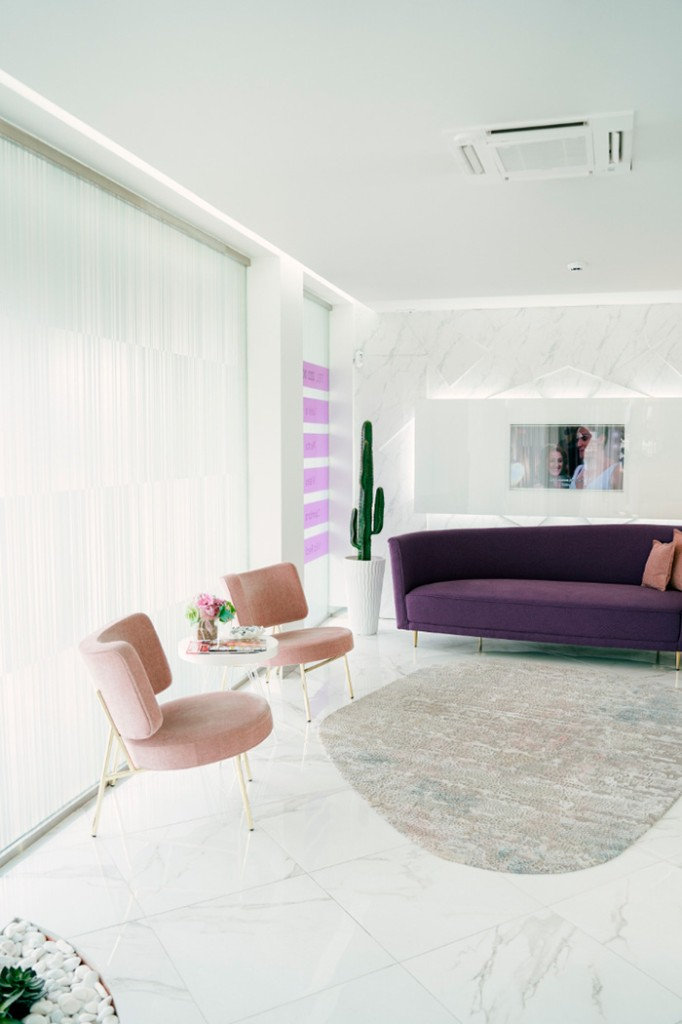
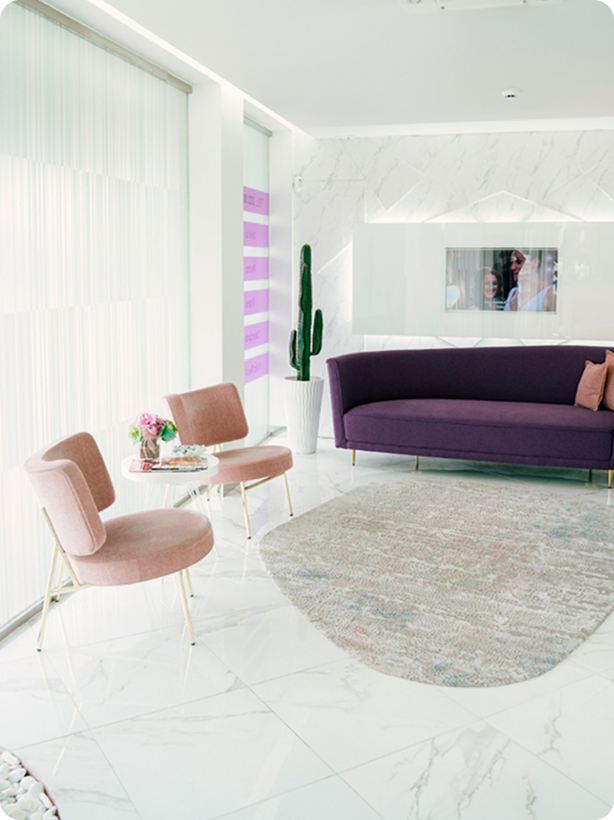
Fixed and next section image , layout , responsiveness etc

diff --git a/resources/css/components/contact.css b/resources/css/components/contact.css
@@ -1416,14 +1416,7 @@
     overflow: hidden;
     border-top-left-radius: calc(var(--clinics-frame-width) * 120 / 1711);
     container-type: inline-size;
-    background:
-      radial-gradient(
-        ellipse 38.5% 30% at 0 0,
-        rgb(225 199 249 / 0.76) 0%,
-        rgb(225 199 249 / 0.36) 37%,
-        rgb(255 255 255 / 0) 72%
-      ),
-      #ffffff;
+    background: radial-gradient(97% 50% at 0 0, #e1c7f9 0%, #e1c7f975 70%, #fff0 100%), #fff;
   }
 
   #clinics-teaser .clinics-section__glow,
@@ -1454,8 +1447,8 @@
   #clinics-teaser .clinics-section__media {
     position: absolute;
     top: 7.948568089cqw; /* 136 / 1711 */
-    left: 8.29924021cqw; /* 142 / 1711 */
-    width: 35.885447107cqw; /* 614 / 1711 */
+    left: 8.6cqw;
+    width: 35.4cqw;
     height: 47.925189947cqw; /* 820 / 1711 */
     min-height: 0;
     margin: 0;
@@ -1501,15 +1494,15 @@
   #clinics-teaser .clinics-section__content {
     position: absolute;
     top: 13.50087668cqw; /* 231 / 1711 */
-    left: 47.866744594cqw; /* 819 / 1711 */
-    width: 40.97019287cqw; /* 701 / 1711 */
+    left: 47.6cqw;
+    width: 40.5cqw;
     max-width: none;
     margin: 0;
     padding: 0;
   }
 
   #clinics-teaser .clinics-section__title {
-    width: 39.859731151cqw; /* 682 / 1711 */
+    width: 39.4cqw;
     height: 2.27936879cqw; /* 39 / 1711 */
     margin: 0;
     overflow: hidden;
@@ -1521,21 +1514,21 @@
   }
 
   #clinics-teaser .clinics-section__divider {
-    width: 40.97019287cqw; /* 701 / 1711 */
+    width: 40.5cqw;
     height: 0;
     margin: 1.285797779cqw 0 0; /* line at Y292 */
     border-top: 1px solid #9a9a9a;
   }
 
   #clinics-teaser .clinics-section__list {
-    width: 40.97019287cqw; /* 701 / 1711 */
+    width: 40.5cqw;
     margin: 0;
     padding: 0;
   }
 
   #clinics-teaser .clinics-section__item {
     display: block;
-    width: 40.97019287cqw; /* 701 / 1711 */
+    width: 40.5cqw;
     height: 6.604325073cqw; /* 113 / 1711 */
     padding: 1.344243132cqw 0 0; /* 23 / 1711 */
     border-bottom: 1px solid #9a9a9a;

diff --git a/resources/js/live-gradient.js b/resources/js/live-gradient.js
@@ -59,6 +59,10 @@ function getIntensityScale(element) {
 }
 
 function createState(element, index) {
+  if (element.hasAttribute("data-live-gradient-disabled")) {
+    return null;
+  }
+
   const style = getComputedStyle(element);
   const mode = getGradientMode(element, style);
 

diff --git a/resources/views/components/clinics-section.blade.php b/resources/views/components/clinics-section.blade.php
@@ -21,6 +21,7 @@
     <div
         class="clinics-section__panel relative overflow-hidden bg-[#02000d] lg:-mt-[235px] lg:rounded-tl-[120px] lg:bg-white"
         data-scroll-gradient
+        data-live-gradient-disabled
         data-live-gradient-intensity="strong"
     >
         <div class="clinics-section__glow" aria-hidden="true">
